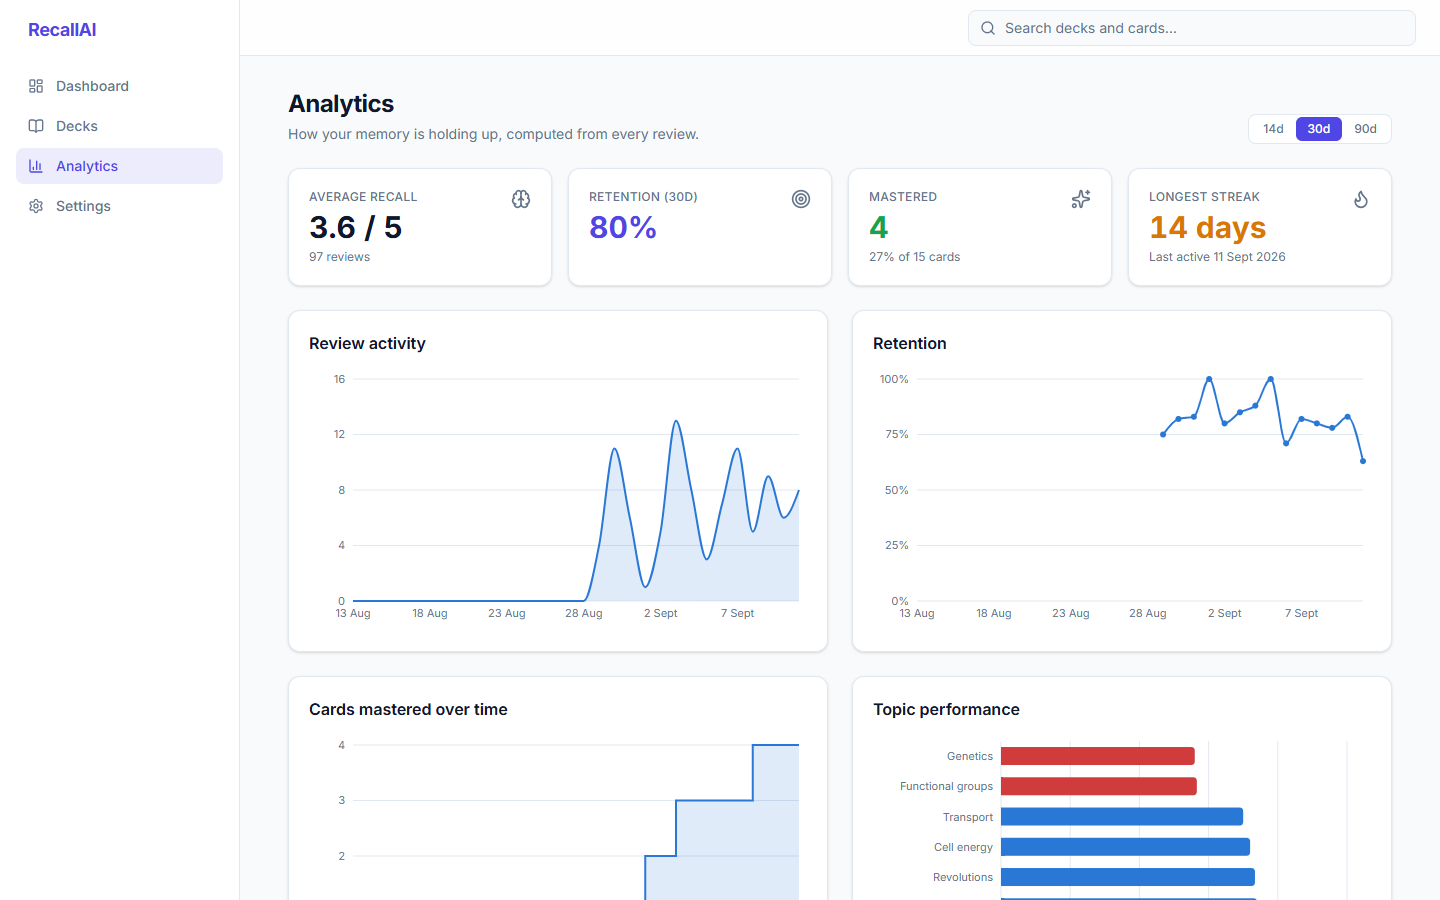
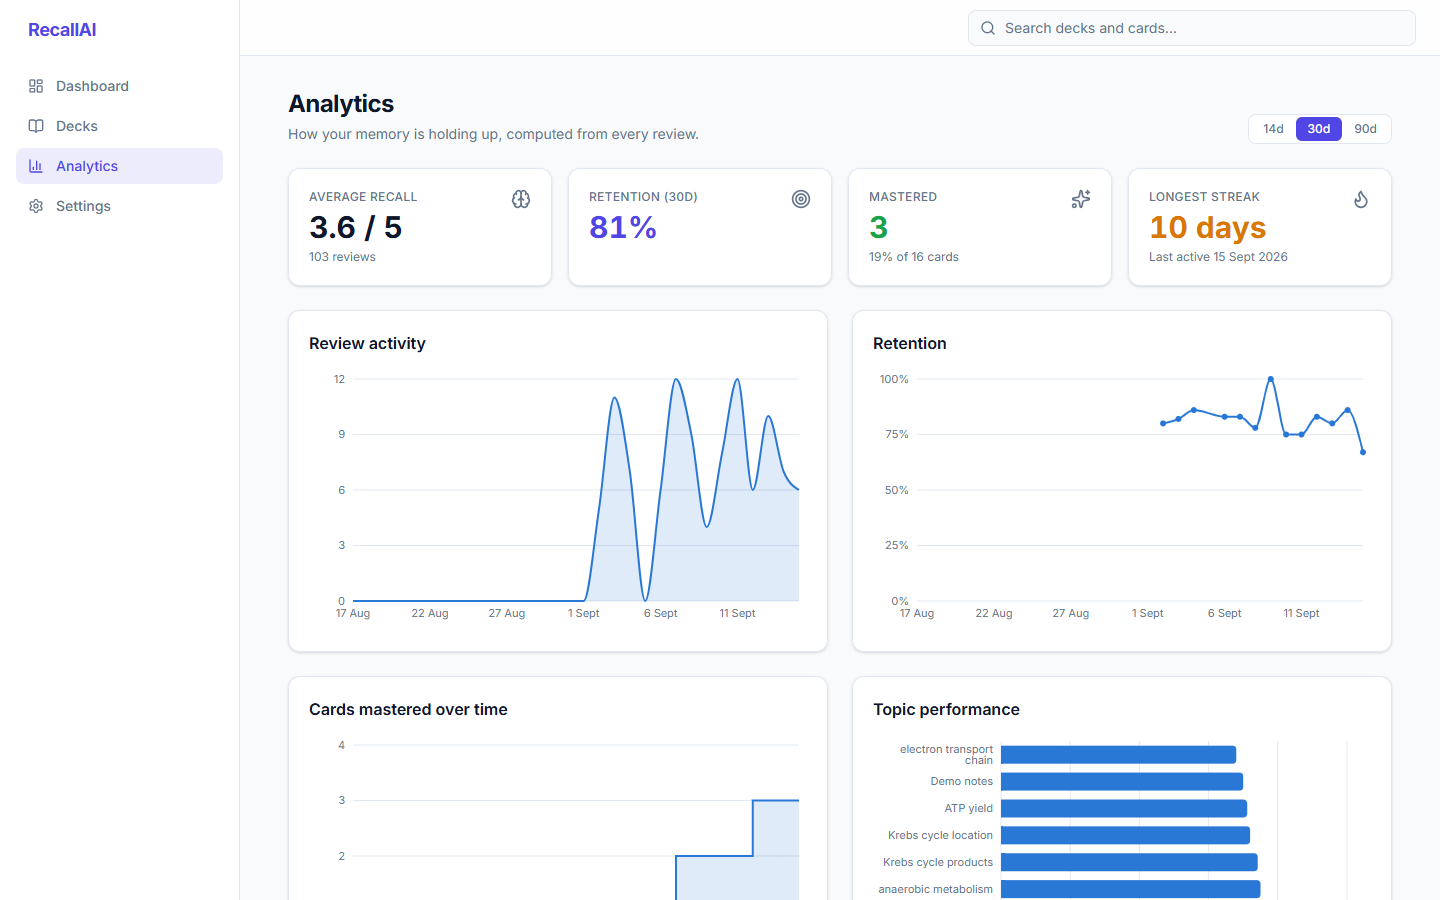
docs: refresh screenshots from the Groq-backed run
All five screenshots recaptured from the running stack with AI_PROVIDER=groq: the deck dialog shows the active provider notice, the study card and quiz results contain Groq-generated content, and the dashboard and analytics carry live review data.

diff --git a/README.md b/README.md
@@ -636,7 +636,7 @@ Then open `https://app.example.com`, register, create a deck, generate cards fro
 
 ## Screenshots
 
-Screens to capture are listed in `docs/screenshots/README.md` together with a one-line Playwright command. Once the PNGs are in place they render here:
+Captured from the composed stack running on the Groq provider (`AI_PROVIDER=groq`, `openai/gpt-oss-120b`): the cards, the quiz and the explanations shown here were generated from pasted notes at zero cost. `docs/screenshots/README.md` lists the screens and the Playwright command used.
 
 | Dashboard | Deck and card generation |
 |---|---|

diff --git a/docs/screenshots/README.md b/docs/screenshots/README.md
@@ -1,5 +1,7 @@
 # Screenshots
 
+Current set: captured 15 Sept 2026 from the compose stack with `AI_PROVIDER=groq` (model `openai/gpt-oss-120b`), light theme, 1440x900.
+
 Capture these after `docker compose up --build` (or the local setup) with an account that has a
 few decks and reviews, at 1440x900, and save them here with the exact names below so the main
 README picks them up.
